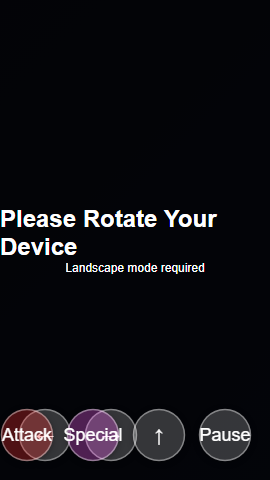
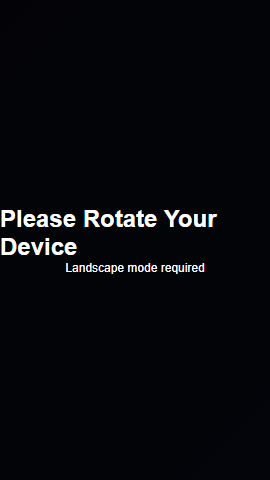
Show touch controls only during gameplay on mobile
Touch controls are now hidden by default and only displayed during the PLAYING state on mobile landscape. Added a Playwright script to verify touch controls visibility before and after starting the game. Updated screenshot to reflect the new UI behavior.

Changed region(s): [[0.0, 0.8438, 0.6815, 0.9688], [0.7407, 0.8438, 0.9481, 0.9688]]

diff --git a/index.html b/index.html
@@ -400,9 +400,11 @@ function updateMobileUI() {
             showMobileStartOverlay();
         }
         const tc = document.getElementById('touch-controls');
-        if (tc) tc.style.display = 'flex';
-        // Ensure controls have listeners
-        initTouchControls();
+        // Ensure controls exist and have listeners, but keep them hidden until gameplay starts
+        if (tc) {
+            tc.style.display = 'none';
+            initTouchControls();
+        }
     }
 }
 
@@ -411,6 +413,19 @@ window.addEventListener('orientationchange', debouncedUpdateMobileUI);
 window.addEventListener('resize', debouncedUpdateMobileUI);
 // run once on load (use non-debounced immediate call so layout is correct)
 updateMobileUI();
+
+// Show/hide touch controls based on game state: only visible during PLAYING on mobile landscape
+window.addEventListener('gameStateChange', function(e) {
+    const tc = document.getElementById('touch-controls');
+    if (!tc) return;
+    if (!isMobile()) { tc.style.display = 'none'; return; }
+    if (!isLandscape()) { tc.style.display = 'none'; return; }
+    if (e && e.detail && e.detail.state === 'PLAYING') {
+        tc.style.display = 'flex';
+    } else {
+        tc.style.display = 'none';
+    }
+});
 
 // --- RUNTIME ERROR CAPTURE ---
 (function () {
@@ -445,7 +460,7 @@ updateMobileUI();
 /* Re-insert touch controls as a fixed overlay so transforms on #game-container don't affect layout */
 (function() {
     const html = `
-    <div id="touch-controls" style="position:fixed; bottom:calc(20px + var(--safe-bottom)); left:0; right:0; transform:none; display:flex; justify-content:space-between; align-items:flex-end; pointer-events:none; z-index:2000; padding:0 calc(20px + var(--safe-right));">
+    <div id="touch-controls" style="position:fixed; bottom:calc(20px + var(--safe-bottom)); left:0; right:0; transform:none; display:none; justify-content:space-between; align-items:flex-end; pointer-events:none; z-index:2000; padding:0 calc(20px + var(--safe-right));">
         <div id="d-pad" class="control-group" style="pointer-events:auto; display:flex; gap:8px;">
             <button class="touch-btn" id="btn-left">&#8592;</button>
             <button class="touch-btn" id="btn-right">&#8594;</button>
@@ -462,6 +477,8 @@ updateMobileUI();
     </div>
     `;
     document.body.insertAdjacentHTML('beforeend', html);
+    // Ensure touch control handlers are bound now that elements exist
+    if (typeof initTouchControls === 'function') initTouchControls();
 })();
 
 /* --- DEBUG OVERLAY (toggle with 'd') --- */

diff --git a/tools/check_touch_controls_visibility.js b/tools/check_touch_controls_visibility.js
@@ -1,0 +1,31 @@
+const { chromium } = require('playwright');
+(async ()=>{
+  const browser = await chromium.launch();
+  // Use landscape viewport so mobile UI is active
+  const context = await browser.newContext({viewport:{width:640,height:360}, deviceScaleFactor:0.75, userAgent: 'Mozilla/5.0 (Linux; Android 9; Mobile) AppleWebKit/537.36 (KHTML, like Gecko) Chrome/88.0 Mobile Safari/537.36'});
+  const page = await context.newPage();
+  await page.goto('http://localhost:8001');
+  // wait for DOM
+  await page.waitForSelector('#game-canvas');
+  const before = await page.evaluate(()=>{
+    const el = document.getElementById('touch-controls');
+    return el ? getComputedStyle(el).display : 'missing';
+  });
+  console.log('touch-controls before start:', before);
+  // Wait for game readiness, then press Enter to start
+  await page.waitForFunction('window.gameReady === true', { timeout: 5000 }).catch(() => {});
+  await page.keyboard.press('Enter');
+  // Wait for game to actually enter PLAYING state
+  try {
+    await page.waitForFunction('window.game && window.game.state === "PLAYING"', { timeout: 3000 });
+  } catch (e) {
+    console.log('game did not enter PLAYING within timeout');
+  }
+  await page.waitForTimeout(200);
+  const after = await page.evaluate(()=>{
+    const el = document.getElementById('touch-controls');
+    return el ? getComputedStyle(el).display : 'missing';
+  });
+  console.log('touch-controls after start:', after);
+  await browser.close();
+})();
